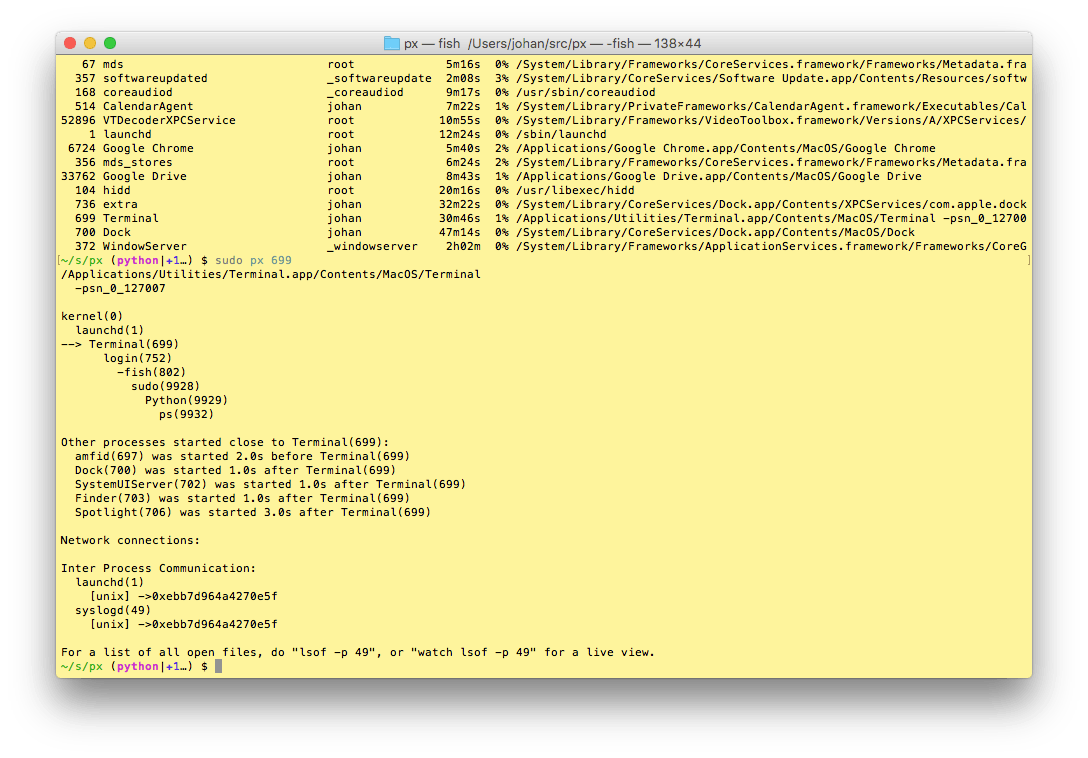
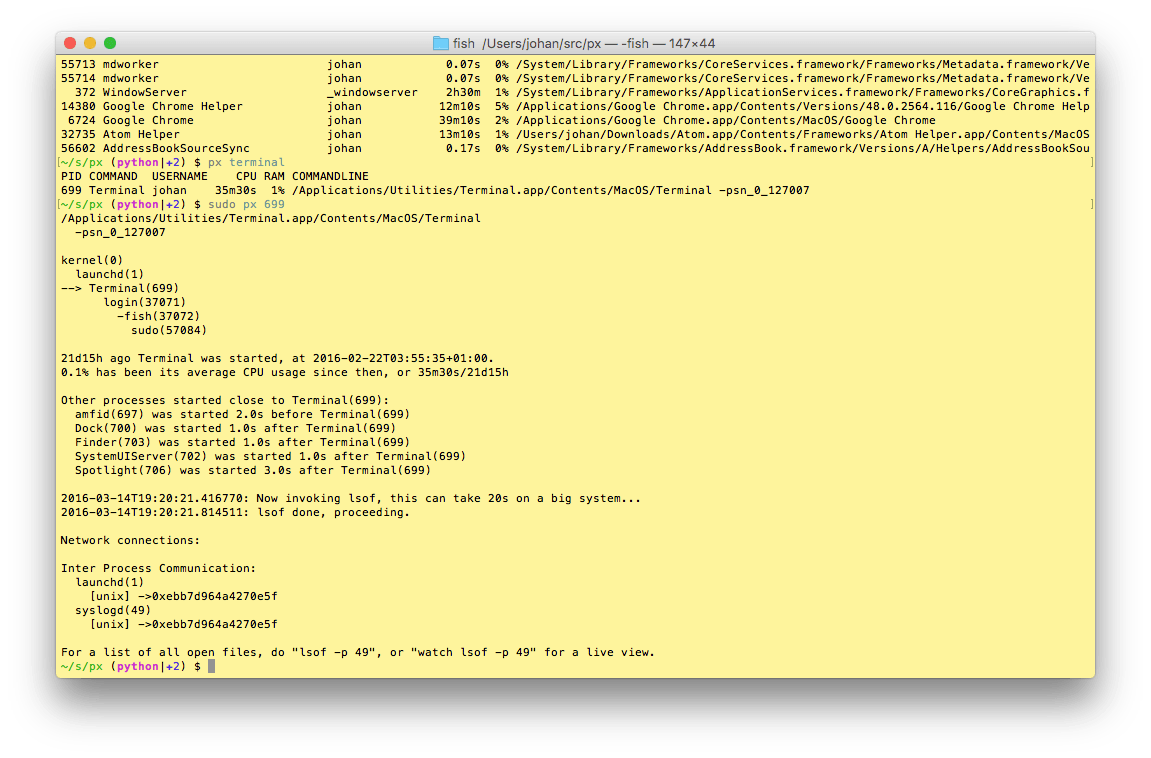
Update screenshot
Also add documentation about that recently started processes end up towards the
end of the list.

Changed region(s): [[0.0312, 0.0303, 0.9688, 0.9103]]

diff --git a/px/px.py b/px/px.py
@@ -12,7 +12,7 @@ Usage:
 
 In the base case, px list all processes much like ps, but with the most
 interesting processes last. A process is considered interesting if it has high
-memory usage or has used lots of CPU.
+memory usage, has used lots of CPU or has been started recently.
 
 If the optional filter parameter is specified, processes will be shown if:
 * The filter matches the user name of the process

diff --git a/README.md b/README.md
@@ -14,14 +14,17 @@ other information about that process)
 ![Screenshot](https://raw.githubusercontent.com/walles/px/python/screenshot.png)
 
 This screenshot shows:
-* The end of the output from just typing `px`. Note how the most CPU and memory
-hungry processes are at the end of the list so you can find them without
-scrolling.
+* The end of the output from just typing `px`. Note how the newest and the most
+CPU and memory hungry processes are at the end of the list so you can find them
+without scrolling.
+* The result of searching for "terminal" processes.
 * The output from the details view of PID 699:
   * The command line has been split with one argument per line. This makes long
   command lines readable.
-  * A list of other processes started around the same time as Terminal.
   * The process tree shows how the Terminal relates to other processes.
+  * Details on how long ago Terminal was started, and how much CPU it has been
+  using since.
+  * A list of other processes started around the same time as Terminal.
   * The IPC section shows that the Terminal is talking to `launchd` and
   `syslogd` using
   [Unix domain sockets](https://en.wikipedia.org/wiki/Unix_domain_socket).
